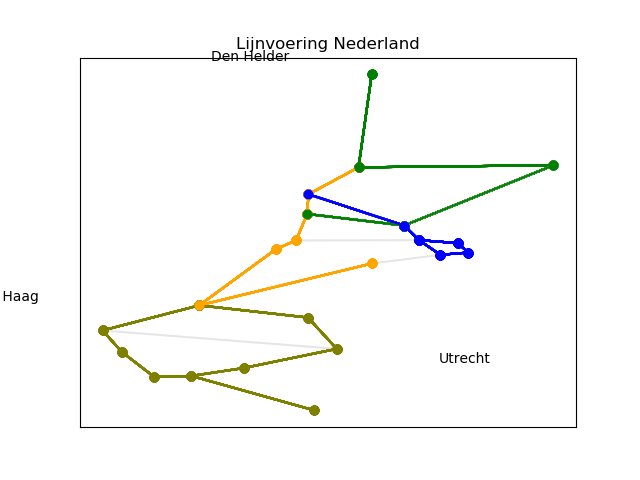
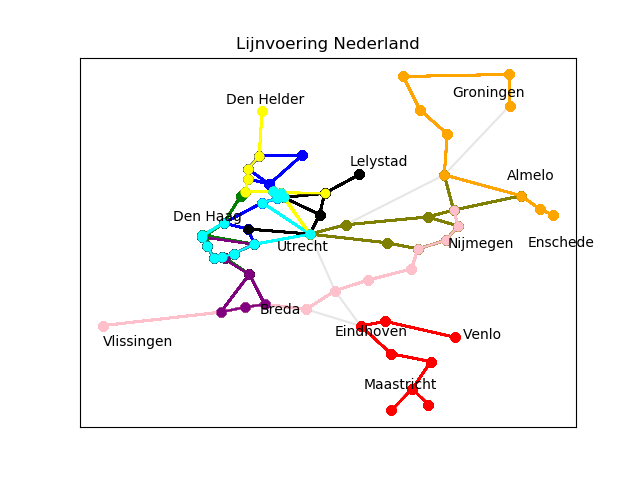
'h'

diff --git a/RailNL/Code/algo/hillclimber2.py b/RailNL/Code/algo/hillclimber2.py
@@ -14,7 +14,7 @@ def hillclimber2(alle_trajecten1, alle_tijdsduur1, totale_tijdsduur1, trajecten_
     sporen_def = copy.deepcopy(sporen1)
     totaal_tijd_def = copy.deepcopy(totale_tijdsduur1)
 
-    for i in range (HILL2):
+    for j in range (HILL2):
     
 
         
@@ -48,7 +48,7 @@ def hillclimber2(alle_trajecten1, alle_tijdsduur1, totale_tijdsduur1, trajecten_
                 functies.hill2.volgend_spoor(beste_optie[0], eigen_traject)
 
             if nieuwe_tijdsduur > MAX:
-                functies.hill2.pop(trajecten_algemeen, sporen, eigen_traject)
+                functies.hill2.pop(trajecten_algemeen, trajecten_algemeen1, sporen, eigen_traject)
                 nieuwe_tijdsduur = nieuwe_tijdsduur - beste_optie[1]
             
 
@@ -66,8 +66,10 @@ def hillclimber2(alle_trajecten1, alle_tijdsduur1, totale_tijdsduur1, trajecten_
         totaal_tijd = functies.minuten.minuten(nieuw_alle_tijden)
         score = functies.scorefunctie.score(nieuw_alle_trajecten, totaal_tijd, sporen, TOTAAL_SPOREN)
         
-        if score > score1:
         
+            
+        if score > score1:
+
             score1 = score
             alle_tijdsduur_def = nieuw_alle_tijden
             alle_trajecten_def = nieuw_alle_trajecten

diff --git a/RailNL/Code/functies/hill2.py b/RailNL/Code/functies/hill2.py
@@ -15,7 +15,7 @@ def volgend_spoor(nieuw_station, traject):
     traject.append(nieuw_station)
 
 
-def pop(trajecten_algemeen, sporen, traject):
+def pop(trajecten_algemeen, oud_trajecten_algemeen, sporen, traject):
       
         a = traject[-1]
         b = traject[-2]
@@ -23,11 +23,22 @@ def pop(trajecten_algemeen, sporen, traject):
         
         pop = traject.pop() 
          
-        pop2 = trajecten_algemeen.pop()
+         
+
         
-        # Als er maar 1 station in traject is, kun je niet deze niet verwijderen. 
-        if not pop == pop2:
-            trajecten_algemeen.append(pop2)
+        if len(trajecten_algemeen) == len(oud_trajecten_algemeen):
+            trajecten_algemeen = trajecten_algemeen
+            
+        else:
+
+            pop2 = trajecten_algemeen.pop()
+
+        
+        
+       
+            # Als er maar 1 station in traject is, kun je niet deze niet verwijderen. 
+            if not pop == pop2:
+                trajecten_algemeen.append(pop2)
         
         # Verwijder laatste verbinding uit sporen. 
         if laatste_verbinding == sporen[-1]:

diff --git a/RailNL/Code/main2.py b/RailNL/Code/main2.py
@@ -23,9 +23,9 @@ start_time = time.clock()
 
 # AANTAL MINUTEN
 
-HILL = 1000
+HILL = 200000
 
-HILL2 = 1000
+HILL2 = 500000
 
 # Aantal minuten.
 
@@ -113,6 +113,11 @@ print()
 
 print(time.clock() - start_time, "seconden")
 
+
+#visualisatie.visualisatie.visualisatie(alle_trajecten, STATIONS, VERBINDINGEN)
+
+
+
 start_time1 = time.clock()
 
 nieuw_traject = algo.hillclimber2.hillclimber2(alle_trajecten, alle_tijdsduur, totale_tijdsduur, trajecten_algemeen, graph, sporen, MAX, TOTAAL_SPOREN, score, HILL2, verbindingen)
@@ -156,7 +161,7 @@ print(time.clock() - start_time1, "seconden")
 
 
 
-visualisatie.visualisatie.visualisatie(nieuw_traject[0], STATIONS, VERBINDINGEN)
+visualisatie.visualisatie.visualisatie(def_trajecten, STATIONS, VERBINDINGEN)
 
 
 

diff --git a/RailNL/Code/algo/trajectmaker.py b/RailNL/Code/algo/trajectmaker.py
@@ -45,7 +45,7 @@ def traject_maker(RANGE, MAX, stations, verbindingen, uithoeken, graph, TOTAAL_S
 
             else:
                 # Beste optie kiezen aan de hand van de mogelijkheden.
-                beste_optie = trein.opties_randomconstr(sporen, graph, trajecten_algemeen, trein.eindstation[0])
+                beste_optie = trein.opties_nearest(sporen, graph, trajecten_algemeen, trein.eindstation[0])
                 
                 # Spoor toevoegen.
                 trein.spoor_toevoegen(sporen, trein.eindstation[0], beste_optie)

diff --git a/RailNL/Code/algo/hillclimber.py b/RailNL/Code/algo/hillclimber.py
@@ -47,7 +47,7 @@ def hillclimber(score1, alle_trajecten1, alle_tijdsduur1, HILL, RANGE, MAX, stat
 
                     # Beste optie kiezen aan de hand van de mogelijkheden.
 
-                    beste_optie = trein.opties_randomconstr(sporen, graph, trajecten_algemeen, trein.eindstation[0])
+                    beste_optie = trein.opties_farest(sporen, graph, trajecten_algemeen, trein.eindstation[0])
                     #Spoor toevoegen.
 
                     trein.spoor_toevoegen(sporen, trein.eindstation[0], beste_optie)
